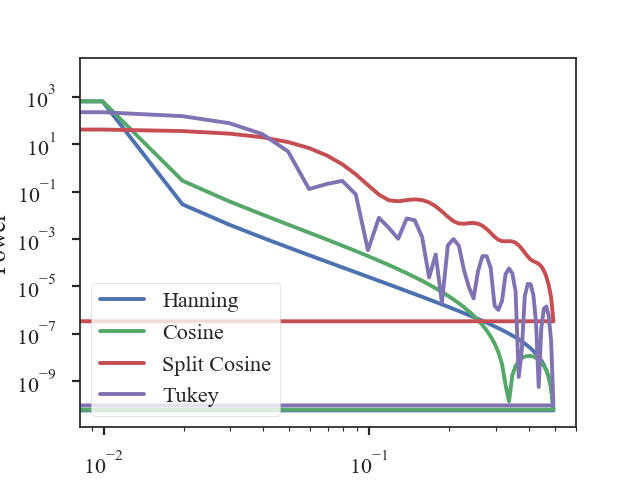
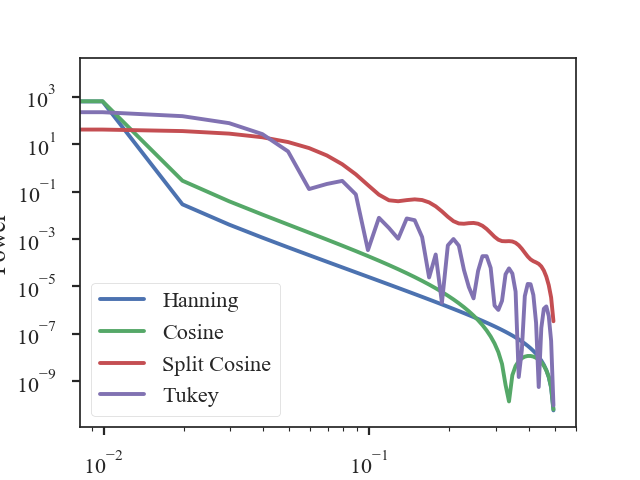
Update apodizing kernel tutorial page with new red noise function

Changed region(s): [[0.125, 0.8125, 0.875, 0.875], [0.125, 0.6562, 0.8438, 0.6875]]

diff --git a/docs/tutorials/code_for_examples.py b/docs/tutorials/code_for_examples.py
@@ -19,7 +19,7 @@ sb.set_context("poster", font_scale=1.0)
 fig_path = 'images'
 
 # Choose which methods to run
-run_apod_examples = True
+run_apod_examples = False
 run_beamcorr_examples = False
 
 if run_apod_examples:
@@ -83,11 +83,11 @@ if run_apod_examples:
     plt.savefig(osjoin(fig_path, '1d_apods.png'))
     plt.close()
 
-    freqs = np.fft.fftfreq(shape[0])
-    plt.loglog(freqs, np.abs(np.fft.fft(data[shape[0] // 2]))**2, label='Hanning')
-    plt.loglog(freqs, np.abs(np.fft.fft(data2[shape[0] // 2]))**2, label='Cosine')
-    plt.loglog(freqs, np.abs(np.fft.fft(data3[shape[0] // 2]))**2, label='Split Cosine')
-    plt.loglog(freqs, np.abs(np.fft.fft(data4[shape[0] // 2]))**2, label='Tukey')
+    freqs = np.fft.rfftfreq(shape[0])
+    plt.loglog(freqs, np.abs(np.fft.rfft(data[shape[0] // 2]))**2, label='Hanning')
+    plt.loglog(freqs, np.abs(np.fft.rfft(data2[shape[0] // 2]))**2, label='Cosine')
+    plt.loglog(freqs, np.abs(np.fft.rfft(data3[shape[0] // 2]))**2, label='Split Cosine')
+    plt.loglog(freqs, np.abs(np.fft.rfft(data4[shape[0] // 2]))**2, label='Tukey')
     plt.legend(frameon=True)
     plt.xlabel("Freq. (1 / pix)")
     plt.ylabel("Power")
@@ -113,7 +113,7 @@ if run_apod_examples:
 
     pspec = PowerSpectrum(plaw_hdu)
     pspec.run(verbose=True, radial_pspec_kwargs={'binsize': 1.0},
-              fit_kwargs={'weighted_fit': True}, fit_2D=False,
+              fit_kwargs={'weighted_fit': False}, fit_2D=False,
               low_cut=1. / (60 * u.pix),
               save_name=osjoin(fig_path, "rednoise_pspec_slope3.png"))
 
@@ -125,25 +125,25 @@ if run_apod_examples:
 
     pspec2 = PowerSpectrum(plaw_hdu)
     pspec2.run(verbose=False, radial_pspec_kwargs={'binsize': 1.0},
-               fit_kwargs={'weighted_fit': True}, fit_2D=False,
+               fit_kwargs={'weighted_fit': False}, fit_2D=False,
                low_cut=1. / (60 * u.pix),
                apodize_kernel='hanning',)
 
     pspec3 = PowerSpectrum(plaw_hdu)
     pspec3.run(verbose=False, radial_pspec_kwargs={'binsize': 1.0},
-               fit_kwargs={'weighted_fit': True}, fit_2D=False,
+               fit_kwargs={'weighted_fit': False}, fit_2D=False,
                low_cut=1. / (60 * u.pix),
                apodize_kernel='cosinebell', alpha=0.98,)
 
     pspec4 = PowerSpectrum(plaw_hdu)
     pspec4.run(verbose=False, radial_pspec_kwargs={'binsize': 1.0},
-               fit_kwargs={'weighted_fit': True}, fit_2D=False,
+               fit_kwargs={'weighted_fit': False}, fit_2D=False,
                low_cut=1. / (60 * u.pix),
                apodize_kernel='splitcosinebell', alpha=0.3, beta=0.8)
 
     pspec5 = PowerSpectrum(plaw_hdu)
     pspec5.run(verbose=False, radial_pspec_kwargs={'binsize': 1.0},
-               fit_kwargs={'weighted_fit': True}, fit_2D=False,
+               fit_kwargs={'weighted_fit': False}, fit_2D=False,
                low_cut=1. / (60 * u.pix),
                apodize_kernel='tukey', alpha=0.3)
 
@@ -156,14 +156,15 @@ if run_apod_examples:
     pspec4.plot_fit(color=col_pal[3], label='SplitCosineBell')
     pspec5.plot_fit(color=col_pal[4], label='Tukey')
     plt.legend(frameon=True, loc='lower left')
-    plt.ylim([2, 9.5])
+    plt.ylim([-2, 7.5])
     plt.tight_layout()
     plt.savefig(osjoin(fig_path, "rednoise_pspec_slope3_apod_comparisons.png"))
     plt.close()
 
-    print("Original: {0} \nHanning: {1} \nCosineBell: {2} \n"
-          "SplitCosineBell: {3} \nTukey: {4}".format(pspec.slope,
-                                                     pspec2.slope,
-                                                     pspec3.slope,
-                                                     pspec4.slope,
-                                                     pspec5.slope))
+    print("Original: {0:.2f} \nHanning: {1:.2f} \nCosineBell: {2:.2f} \n"
+          "SplitCosineBell: {3:.2f} \nTukey: {4:.2f}"
+          .format(pspec.slope, pspec2.slope, pspec3.slope, pspec4.slope,
+                  pspec5.slope))
+
+if run_beamcorr_examples:
+    pass

diff --git a/docs/tutorials/applying_apodizing_functions.rst b/docs/tutorials/applying_apodizing_functions.rst
@@ -106,27 +106,27 @@ The power-spectrum of the image should give a slope of 3:
                   fit_kwargs={'weighted_fit': True}, fit_2D=False,
                   low_cut=1. / (60 * u.pix))
 
-                                WLS Regression Results
+                                OLS Regression Results
     ==============================================================================
-    Dep. Variable:                      y   R-squared:                       0.997
-    Model:                            WLS   Adj. R-squared:                  0.997
-    Method:                 Least Squares   F-statistic:                 5.956e+04
-    Date:                Thu, 14 Jun 2018   Prob (F-statistic):          1.33e-223
-    Time:                        15:10:48   Log-Likelihood:                 300.42
-    No. Observations:                 177   AIC:                            -596.8
-    Df Residuals:                     175   BIC:                            -590.5
+    Dep. Variable:                      y   R-squared:                       1.000
+    Model:                            OLS   Adj. R-squared:                  1.000
+    Method:                 Least Squares   F-statistic:                 8.070e+06
+    Date:                Thu, 21 Jun 2018   Prob (F-statistic):               0.00
+    Time:                        11:43:47   Log-Likelihood:                 701.40
+    No. Observations:                 177   AIC:                            -1399.
+    Df Residuals:                     175   BIC:                            -1392.
     Df Model:                           1
     Covariance Type:            nonrobust
     ==============================================================================
                      coef    std err          t      P>|t|      [0.025      0.975]
     ------------------------------------------------------------------------------
-    const          2.4133      0.008    313.309      0.000       2.398       2.429
-    x1            -2.9876      0.012   -244.052      0.000      -3.012      -2.963
+    const          0.0032      0.001      3.952      0.000       0.002       0.005
+    x1            -2.9946      0.001  -2840.850      0.000      -2.997      -2.992
     ==============================================================================
-    Omnibus:                        1.798   Durbin-Watson:                   2.060
-    Prob(Omnibus):                  0.407   Jarque-Bera (JB):                1.474
-    Skew:                          -0.213   Prob(JB):                        0.479
-    Kurtosis:                       3.136   Cond. No.                         5.10
+    Omnibus:                      252.943   Durbin-Watson:                   1.077
+    Prob(Omnibus):                  0.000   Jarque-Bera (JB):            26797.433
+    Skew:                          -5.963   Prob(JB):                         0.00
+    Kurtosis:                      62.087   Cond. No.                         4.55
     ==============================================================================
 
 .. image:: images/rednoise_pspec_slope3.png
@@ -191,13 +191,14 @@ Comparing the different power spectra with different apodizing kernels, the only
     ...                                 pspec4.slope,
     ...                                 pspec5.slope))
 
-    Original: -2.99
-    Hanning: -3.01
-    CosineBell: -3.01
-    SplitCosineBell: -3.01
-    Tukey: -3.00
+    Original: -3.00
+    Hanning: -2.95
+    CosineBell: -2.95
+    SplitCosineBell: -3.00
+    Tukey: -3.01
 
-All of the slopes, fit without the large scale frequencies, yields the correct slope.
+
+All of the power spectra with an apodizing kernel applied, fit without the large scale frequencies, yield the correct slope.
 
 .. warning:: The range of frequencies affected by the apodizing kernel depends on the properties of the kernel used. The shape of the kernels are controlled by the :math:`\alpha` and/or :math:`\beta` parameters (see above). Narrower shapes will tend to have a larger effect on the power-spectrum. It is prudent to check the effect of the apodizing kernel by comparing different choices for the shape!
 
